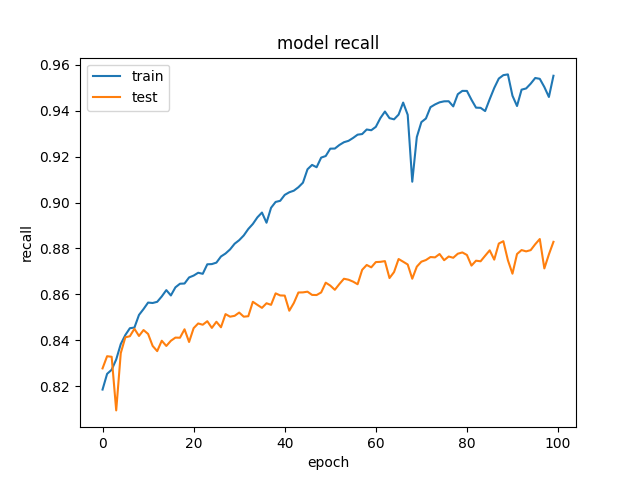
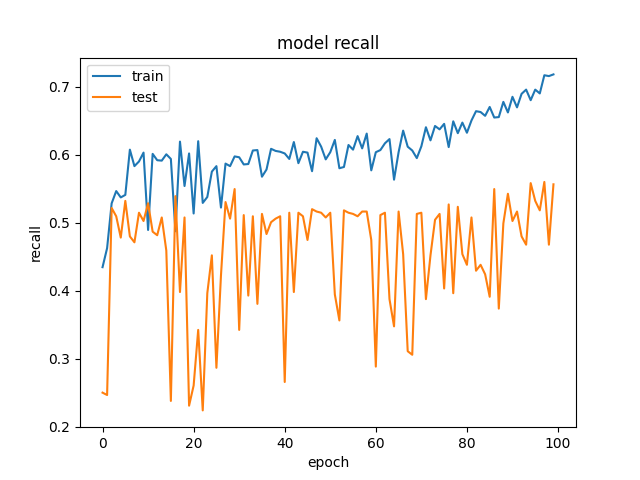
shuffle conversation train and memory otimazation

diff --git a/src/chatbot/network/model.py b/src/chatbot/network/model.py
@@ -1,8 +1,7 @@
+import random
 import keras.layers
 import keras.utils
 
-from src.chatbot.network.dto.model_fit_data_dto import ModelFitDataDTO
-from src.chatbot.network.dto.model_params_dto import ModelParamsDTO
 from src.file_path_helper import FilePathHelper
 
 
@@ -17,9 +16,9 @@ class Sec2SecModel:
     def predict_phrase(self, phrase_sequence, target_seq):
         return self.model.predict([phrase_sequence, target_seq])
 
-    def create(self, max_phrase_size, vocab_size, params: ModelParamsDTO):
-        encoder_inputs = keras.layers.Input(shape=(max_phrase_size, vocab_size), batch_size=params.batch_size)
-        decoder_inputs = keras.layers.Input(shape=(max_phrase_size, vocab_size), batch_size=params.batch_size)
+    def create(self, max_phrase_size, vocab_size):
+        encoder_inputs = keras.layers.Input(shape=(max_phrase_size, vocab_size), batch_size=1)
+        decoder_inputs = keras.layers.Input(shape=(max_phrase_size, vocab_size), batch_size=1)
 
         encoder_outputs, encoder_states = self.__create_encoder(encoder_inputs, max_phrase_size)
         decoder_outputs = self.__create_decoder(decoder_inputs, encoder_states, max_phrase_size)
@@ -31,15 +30,25 @@ class Sec2SecModel:
         self.model.summary(print_fn=lambda line: summary.append(line))
         return summary
 
-    def fit(self, model_fit_data_dto: ModelFitDataDTO, params: ModelParamsDTO):
-        self.model.compile(optimizer='rmsprop', loss='categorical_crossentropy', metrics=params.metrics)
-        history = self.model.fit(
-            [model_fit_data_dto.encoder_input_data, model_fit_data_dto.decoder_input_data],
-            model_fit_data_dto.decoder_output_data,
-            epochs=params.epochs,
-            batch_size=params.batch_size,
-            validation_split=params.validation_split,
-            shuffle=params.shuffle
+    def fit(self, get_conversation_data, conversations_size, epochs, metrics):
+        def data_generator():
+            conversations = []
+            for i in range(conversations_size):
+                conversations.append(get_conversation_data(i))
+
+            while True:
+                random.shuffle(conversations)
+                for conversation in conversations:
+                    encoder_input_data, decoder_input_data, decoder_output_data = conversation
+                    for i in range(len(encoder_input_data)):
+                        yield [encoder_input_data[i:i+1], decoder_input_data[i:i+1]], decoder_output_data[i:i+1]
+
+        self.model.compile(optimizer='rmsprop', loss='categorical_crossentropy', metrics=metrics)
+        history = self.model.fit_generator(
+            data_generator(),
+            epochs=epochs,
+            steps_per_epoch=conversations_size,
+            shuffle=False
         )
 
         self.model.save(self.model_path_name)
@@ -84,5 +93,4 @@ class Sec2SecModel:
     def __create_exit_layer(self, decoder_outputs, vocab_size):
         dense_layer = keras.layers.Dense(vocab_size, activation='softmax')
         dense_outputs = keras.layers.TimeDistributed(dense_layer)(decoder_outputs)
-        # dense_outputs = dense_layer(decoder_outputs)
         return dense_outputs

diff --git a/src/chatbot/chatbot.py b/src/chatbot/chatbot.py
@@ -1,55 +1,46 @@
-from src.chatbot.network.dto.model_fit_data_dto import ModelFitDataDTO
-from src.chatbot.network.dto.model_params_dto import ModelParamsDTO
 from src.chatbot.network.model import Sec2SecModel
-from src.chatbot.pln.helpers.database_pln import DatabasePLN
+from src.chatbot.pln.conversations import Conversations
 from src.chatbot.pln.helpers.text_pln import TextPLN
 from src.chatbot.pln.vocabulary import Vocabulary
 
-singleton_database = DatabasePLN()
 singleton_text_pln = TextPLN()
+singleton_conversations = Conversations(singleton_text_pln)
 singleton_vocabulary = Vocabulary()
 
 
 class Chatbot:
     def __init__(self):
-        self.database = singleton_database
         self.text_pln = singleton_text_pln
         self.vocabulary = singleton_vocabulary
-        self.model = Sec2SecModel()
-        self.questions = []
-        self.answers = []
+        self.conversations = singleton_conversations
 
-    def create(self, params: ModelParamsDTO):
-        self.questions, self.answers = self.database.get_questions_and_answers()
-        self.questions = self.text_pln.clear_and_tagging_phrases(
-            self.questions,
-            self.vocabulary.END_TAG
-        )
-        self.answers = self.text_pln.clear_and_tagging_phrases(self.answers, self.vocabulary.END_TAG)
+        self.model = Sec2SecModel()
+
+    def create(self):
+        self.conversations.load_and_process(self.vocabulary.END_TAG)
+        questions, answers = self.conversations.get_all_questions_and_answers()
 
         max_phrase_size = 0
         max_phrase = ''
-        for phrase in self.questions + self.answers:
+        for phrase in questions + answers:
             length = len(phrase.split())
             if length > max_phrase_size:
                 max_phrase_size = length
                 max_phrase = phrase
 
         print('Max phrase length: {} From: {}'.format(max_phrase_size, max_phrase))
-        self.vocabulary.create(self.questions, self.answers, max_phrase_size)
+        self.vocabulary.create(questions, answers, max_phrase_size)
         vocab_size = self.vocabulary.get_size()
         print('Vocabulary Size: {}'.format(vocab_size))
-        return self.model.create(max_phrase_size, vocab_size, params)
 
-    def fit(self, params: ModelParamsDTO):
-        encoder_input_data, decoder_input_data, decoder_output_data = self.vocabulary.phrases2data(
-            self.questions, self.answers
-        )
+        return self.model.create(max_phrase_size, vocab_size)
 
-        return self.model.fit(
-            ModelFitDataDTO(encoder_input_data, decoder_input_data, decoder_output_data),
-            params
-        )
+    def fit(self, epochs, metrics):
+        def get_conversation_data(index):
+            questions, answers = self.conversations.get_questions_and_answers_of_index(index)
+            return self.vocabulary.phrases2data(questions, answers)
+
+        return self.model.fit(get_conversation_data, self.conversations.get_size(), epochs, metrics)
 
     def execute(self, question, last_answer):
         last_answer = self.text_pln.clear_and_tagging_phrases(

diff --git a/src/chatbot/pln/conversations.py b/src/chatbot/pln/conversations.py
@@ -5,20 +5,17 @@ import glob
 from src.file_path_helper import FilePathHelper
 
 
-class DatabasePLN:
-    def __init__(self):
-        self.converastions = []
+class Conversations:
+    def __init__(self, text_pln):
+        self.conversations = []
+        self.max_phrase_size = 0
+        self.text_pln = text_pln
 
-    def get_questions_and_answers(self):
-        if len(self.converastions) == 0:
-            self.__load()
-
-        random.shuffle(self.converastions)
-
+    def get_all_questions_and_answers(self):
         questions = []
         answers = []
 
-        for item in self.converastions:
+        for item in self.conversations:
             questions += item['questions']
             answers += item['answers']
 
@@ -26,19 +23,31 @@ class DatabasePLN:
 
         return questions, answers
 
-    def __load(self):
-        list_of_files = glob.glob(FilePathHelper().get_base_file_path(), recursive=True)
+    def load_and_process(self, end_tag):
+        if len(self.conversations) != 0:
+            return
 
+        list_of_files = glob.glob(FilePathHelper().get_base_file_path(), recursive=True)
         print('Read {} files'.format(len(list_of_files)))
 
         for path in list_of_files:
             print(path)
             together = self.__read_file(path)
             questions, answers = self.__split_questions_answers(together, path)
-            if len(questions) > 0:
-                self.converastions.append({'questions': questions, 'answers': answers})
 
-        print('conversations: {}'.format(len(self.converastions)))
+            if len(questions) > 0:
+                questions = self.text_pln.clear_and_tagging_phrases(questions, end_tag)
+                answers = self.text_pln.clear_and_tagging_phrases(answers, end_tag)
+
+                self.conversations.append({'questions': questions, 'answers': answers})
+
+        print('conversations: {}'.format(len(self.conversations)))
+
+    def get_questions_and_answers_of_index(self, conversation_index):
+        return self.conversations[conversation_index]['questions'], self.conversations[conversation_index]['answers']
+
+    def get_size(self):
+        return len(self.conversations)
 
     def __read_file(self, path):
         f = open(path, 'rb')

diff --git a/src/cli/chatbot_cli.py b/src/cli/chatbot_cli.py
@@ -1,5 +1,4 @@
 from src.chatbot.chatbot import Chatbot
-from src.chatbot.network.dto.model_params_dto import ModelParamsDTO
 from src.cli.reports.history import History
 from src.cli.reports.summary import Summary
 from src.file_path_helper import FilePathHelper
@@ -10,10 +9,9 @@ class ChatbotCli:
         self.chatbot = Chatbot()
         self.summary_report = Summary()
         self.history_report = History()
-        self.params = ModelParamsDTO()
 
-    def fit(self):
-        summary = self.chatbot.create(self.params)
+    def fit(self, epochs=100):
+        summary = self.chatbot.create()
 
         self.summary_report.set_summary(summary).plot_img()
 
@@ -22,7 +20,7 @@ class ChatbotCli:
 
         self.chatbot.plot_model(FilePathHelper().get_reports_file_path('schema'))
 
-        result = self.chatbot.fit(self.params)
+        result = self.chatbot.fit(epochs, ['accuracy', 'Precision', 'Recall'])
 
         print(result.history.keys())
         self.history_report \

diff --git a/src/chatbot/network/dto/model_params_dto.py b/src/chatbot/network/dto/model_params_dto.py
@@ -1,6 +1,3 @@
 class ModelParamsDTO:
-    batch_size = 1
     epochs = 100
-    validation_split = 0.25
-    shuffle = False
     metrics = ['accuracy', 'Precision', 'Recall']
